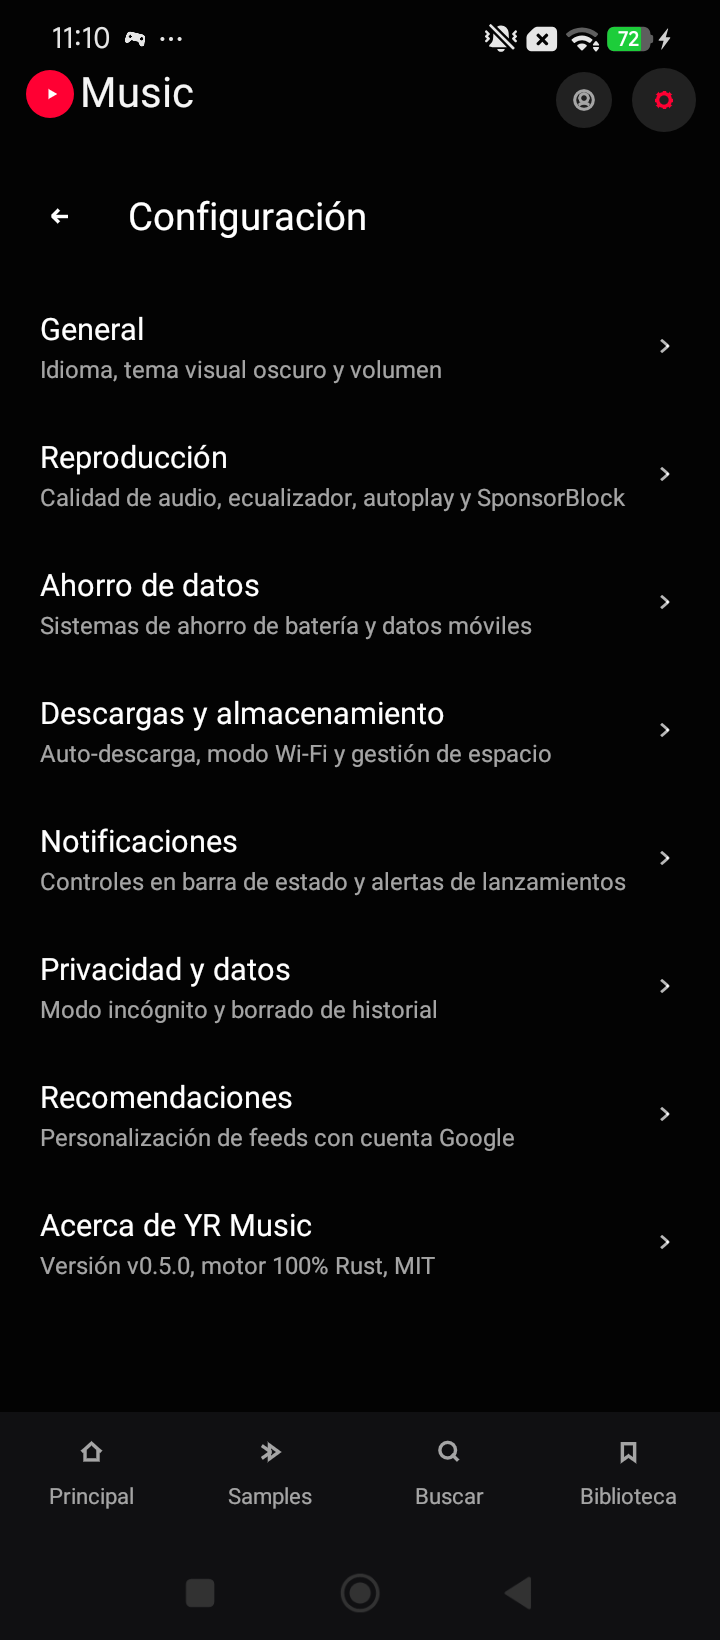
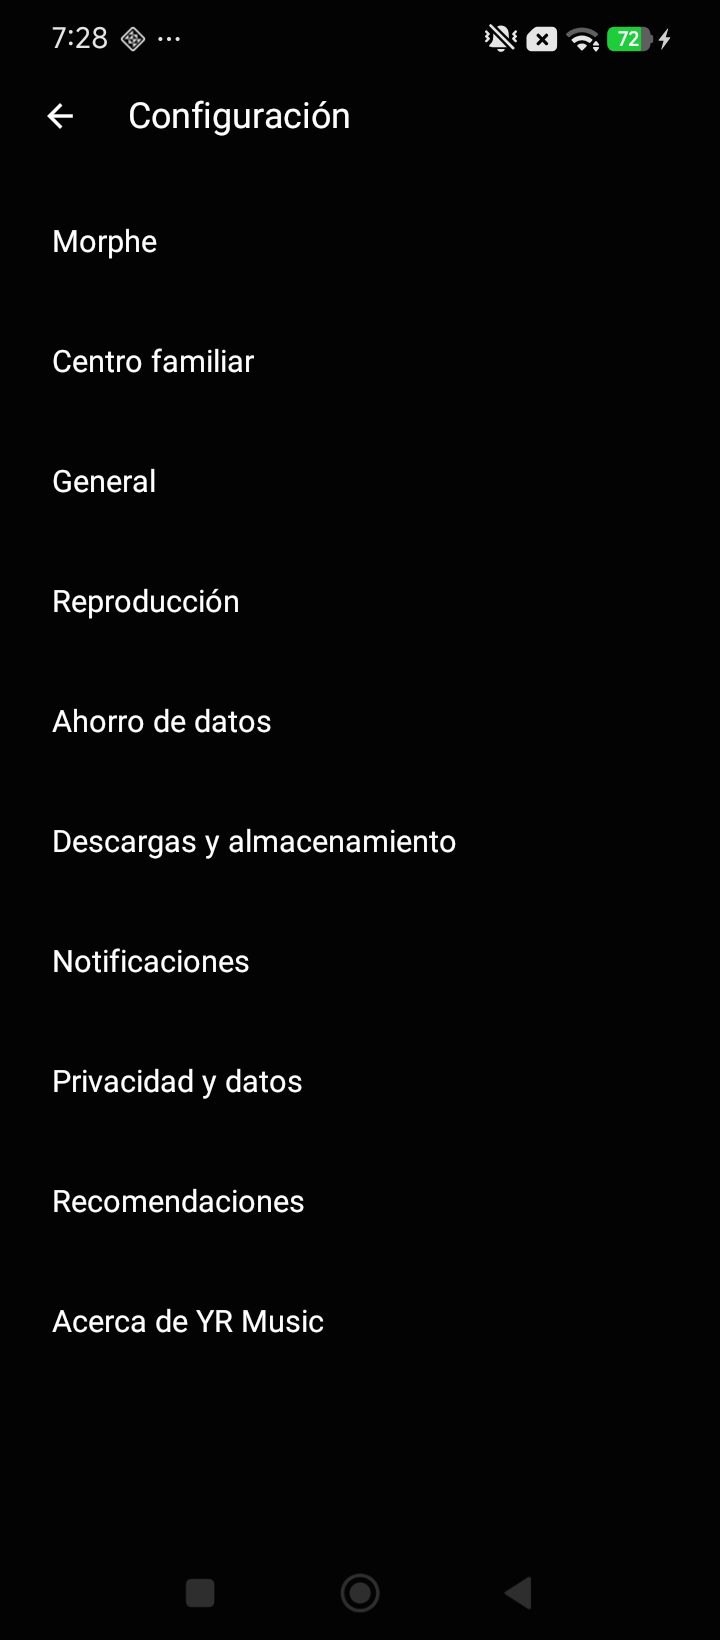
release: v0.6.9 — Playlist Hero layout, enriched Album/Playlist subtitles & trimmed subscriber format

diff --git a/crates/yr-app/src/app.rs b/crates/yr-app/src/app.rs
@@ -2436,21 +2436,82 @@ impl YrApp {
                     );
                 });
                 ui.add_space(6.0);
-                ui.label(
-                    RichText::new(&pl.summary.title)
-                        .size(18.0)
-                        .strong()
-                        .color(TEXT_PRIMARY),
-                );
-                ui.add_space(6.0);
-                self.render_collection_actions(ui, ctx, &pl.tracks, true);
-                ui.add_space(8.0);
                 let detail_viewport = ui.available_rect_before_wrap();
                 self.detail_scroller.update(ui, detail_viewport, !self.detail_loading);
                 let detail_scroll = egui::ScrollArea::vertical()
                     .vertical_scroll_offset(self.detail_scroller.offset_y)
                     .drag_to_scroll(false)
                     .show(ui, |ui| {
+                        ui.vertical_centered(|ui| {
+                            let (art_rect, _) =
+                                ui.allocate_exact_size(Vec2::splat(156.0), Sense::hover());
+                            ui.painter().rect_filled(
+                                art_rect,
+                                CornerRadius::same(12),
+                                BG_ELEVATED,
+                            );
+                            let note_rect = egui::Rect::from_center_size(
+                                art_rect.center(),
+                                Vec2::splat(52.0),
+                            );
+                            icons::draw_icon(
+                                ui.painter(),
+                                note_rect,
+                                icons::Icon::MusicNote,
+                                Color32::from_white_alpha(95),
+                            );
+                            let cover_url = pl.summary.thumbnail_url.as_deref().or_else(|| {
+                                pl.tracks
+                                    .first()
+                                    .and_then(|t| t.thumbnail_url.as_deref())
+                            });
+                            if let Some(u) = cover_url {
+                                paint_progressive_image(
+                                    ui,
+                                    art_rect,
+                                    u,
+                                    544,
+                                    Vec2::splat(156.0),
+                                    CornerRadius::same(12),
+                                );
+                            }
+                            ui.add_space(10.0);
+                            ui.add(
+                                egui::Label::new(
+                                    RichText::new(&pl.summary.title)
+                                        .size(19.0)
+                                        .strong()
+                                        .color(TEXT_PRIMARY),
+                                )
+                                .wrap()
+                                .selectable(false),
+                            );
+                            if let Some(author) = pl.summary.author.as_deref().filter(|s| !s.is_empty()) {
+                                ui.add_space(2.0);
+                                ui.label(
+                                    RichText::new(author)
+                                        .size(14.0)
+                                        .color(TEXT_SECONDARY),
+                                );
+                            }
+                            let count = pl.tracks.len();
+                            let total_secs: u64 =
+                                pl.tracks.iter().filter_map(|t| t.duration_secs).sum();
+                            let count_txt = if count == 1 {
+                                "1 canción".to_string()
+                            } else {
+                                format!("{count} canciones")
+                            };
+                            let meta = if total_secs > 0 {
+                                format!("{count_txt} • {}", format_seconds(total_secs))
+                            } else {
+                                count_txt
+                            };
+                            ui.label(RichText::new(meta).size(12.0).color(TEXT_SECONDARY));
+                            ui.add_space(10.0);
+                            self.render_collection_actions(ui, ctx, &pl.tracks, true);
+                        });
+                        ui.add_space(10.0);
                         for (idx, track) in pl.tracks.iter().enumerate() {
                             self.render_track_row(ui, ctx, track, &pl.tracks, idx, false);
                         }
@@ -4771,12 +4832,16 @@ impl YrApp {
         ctx: &egui::Context,
         album: &yr_core::AlbumSummary,
     ) {
+        let sub = match album.year {
+            Some(y) if y > 0 => format!("{} • {y}", album.artist),
+            _ => album.artist.clone(),
+        };
         if render_collection_row(
             ui,
             ("album_row", &album.id),
             album.thumbnail_url.as_deref(),
             &album.title,
-            Some(album.artist.as_str()),
+            Some(sub.as_str()),
         ) {
             self.open_album(album.id.clone(), ctx);
         }
@@ -4788,12 +4853,18 @@ impl YrApp {
         ctx: &egui::Context,
         pl: &PlaylistSummary,
     ) {
+        let sub = match (pl.author.as_deref(), pl.track_count) {
+            (Some(a), Some(c)) if !a.is_empty() && c > 0 => format!("{a} • {c} canciones"),
+            (Some(a), _) if !a.is_empty() => a.to_string(),
+            (_, Some(c)) if c > 0 => format!("Playlist • {c} canciones"),
+            _ => "Playlist de YouTube Music".to_string(),
+        };
         if render_collection_row(
             ui,
             ("playlist_row", &pl.id),
             pl.thumbnail_url.as_deref(),
             &pl.title,
-            pl.author.as_deref(),
+            Some(sub.as_str()),
         ) {
             self.open_playlist(pl.id.clone(), ctx);
         }
@@ -7873,7 +7944,7 @@ impl YrApp {
                     ui.label(RichText::new("Ajusta los mixes de inicio según tu historial de reproducción, canciones favoritas y artistas seguidos.").size(12.0).color(TEXT_SECONDARY));
                 }
                 SettingsCategory::About => {
-                    ui.heading("YR Music v0.6.8");
+                    ui.heading("YR Music v0.6.9");
                     ui.label("Cliente nativo de música 100% en Rust para Android y escritorio.");
                     ui.add_space(6.0);
                     ui.label(RichText::new("Motor de audio Symphonia PCM de ultra-baja latencia con ecualizador paramétrico de 5 bandas en tiempo real, prefetch predictivo en disco y compatibilidad completa con YouTube Music.").size(12.0).color(TEXT_SECONDARY));
@@ -8985,7 +9056,7 @@ impl YrApp {
                         }
                         if menu_row(ui, icons::Icon::Help, "Ayuda y comentarios").clicked() {
                             self.show_account_modal = false;
-                            self.set_banner("YR Music v0.6.8 • Pure Rust");
+                            self.set_banner("YR Music v0.6.9 • Pure Rust");
                         }
 
                         #[cfg(target_os = "android")]

diff --git a/crates/yr-provider/src/lib.rs b/crates/yr-provider/src/lib.rs
@@ -165,11 +165,9 @@ impl YtMusicProvider {
     fn format_subscriber_count(c: u64) -> String {
         if c >= 1_000_000 {
             let m = c as f64 / 1_000_000.0;
-            if (m - m.round()).abs() < 0.05 {
-                format!("{:.0} M de suscriptores", m.round())
-            } else {
-                format!("{m:.2} M de suscriptores")
-            }
+            let raw = format!("{m:.2}");
+            let trimmed = raw.trim_end_matches('0').trim_end_matches('.');
+            format!("{trimmed} M de suscriptores")
         } else if c >= 1_000 {
             let k = c as f64 / 1_000.0;
             if k >= 100.0 || (k - k.round()).abs() < 0.05 {
@@ -815,6 +813,7 @@ mod tests {
     #[test]
     fn subscriber_count_formatting_handles_millions_thousands_and_units() {
         assert_eq!(YtMusicProvider::format_subscriber_count(6_910_000), "6.91 M de suscriptores");
+        assert_eq!(YtMusicProvider::format_subscriber_count(59_500_000), "59.5 M de suscriptores");
         assert_eq!(YtMusicProvider::format_subscriber_count(2_000_000), "2 M de suscriptores");
         assert_eq!(YtMusicProvider::format_subscriber_count(450_000), "450 K suscriptores");
         assert_eq!(YtMusicProvider::format_subscriber_count(12_400), "12.4 K suscriptores");

diff --git a/README.md b/README.md
@@ -70,7 +70,7 @@ El proyecto está modularizado en un espacio de trabajo de Cargo limpio y desaco
 
 Puedes descargar el APK precompilado y firmado para Android en la sección de [Releases de GitHub](https://github.com/uamo11/YR/releases).
 
-1. Descarga el archivo [`yr-music-v0.6.8-android.apk`](https://github.com/uamo11/YR/releases/latest/download/yr-music-v0.6.8-android.apk).
+1. Descarga el archivo [`yr-music-v0.6.9-android.apk`](https://github.com/uamo11/YR/releases/latest/download/yr-music-v0.6.9-android.apk).
 2. Habilita la instalación desde orígenes desconocidos si tu dispositivo lo solicita.
 3. Instala y disfruta de música sin publicidad y con la máxima velocidad de respuesta.
 
